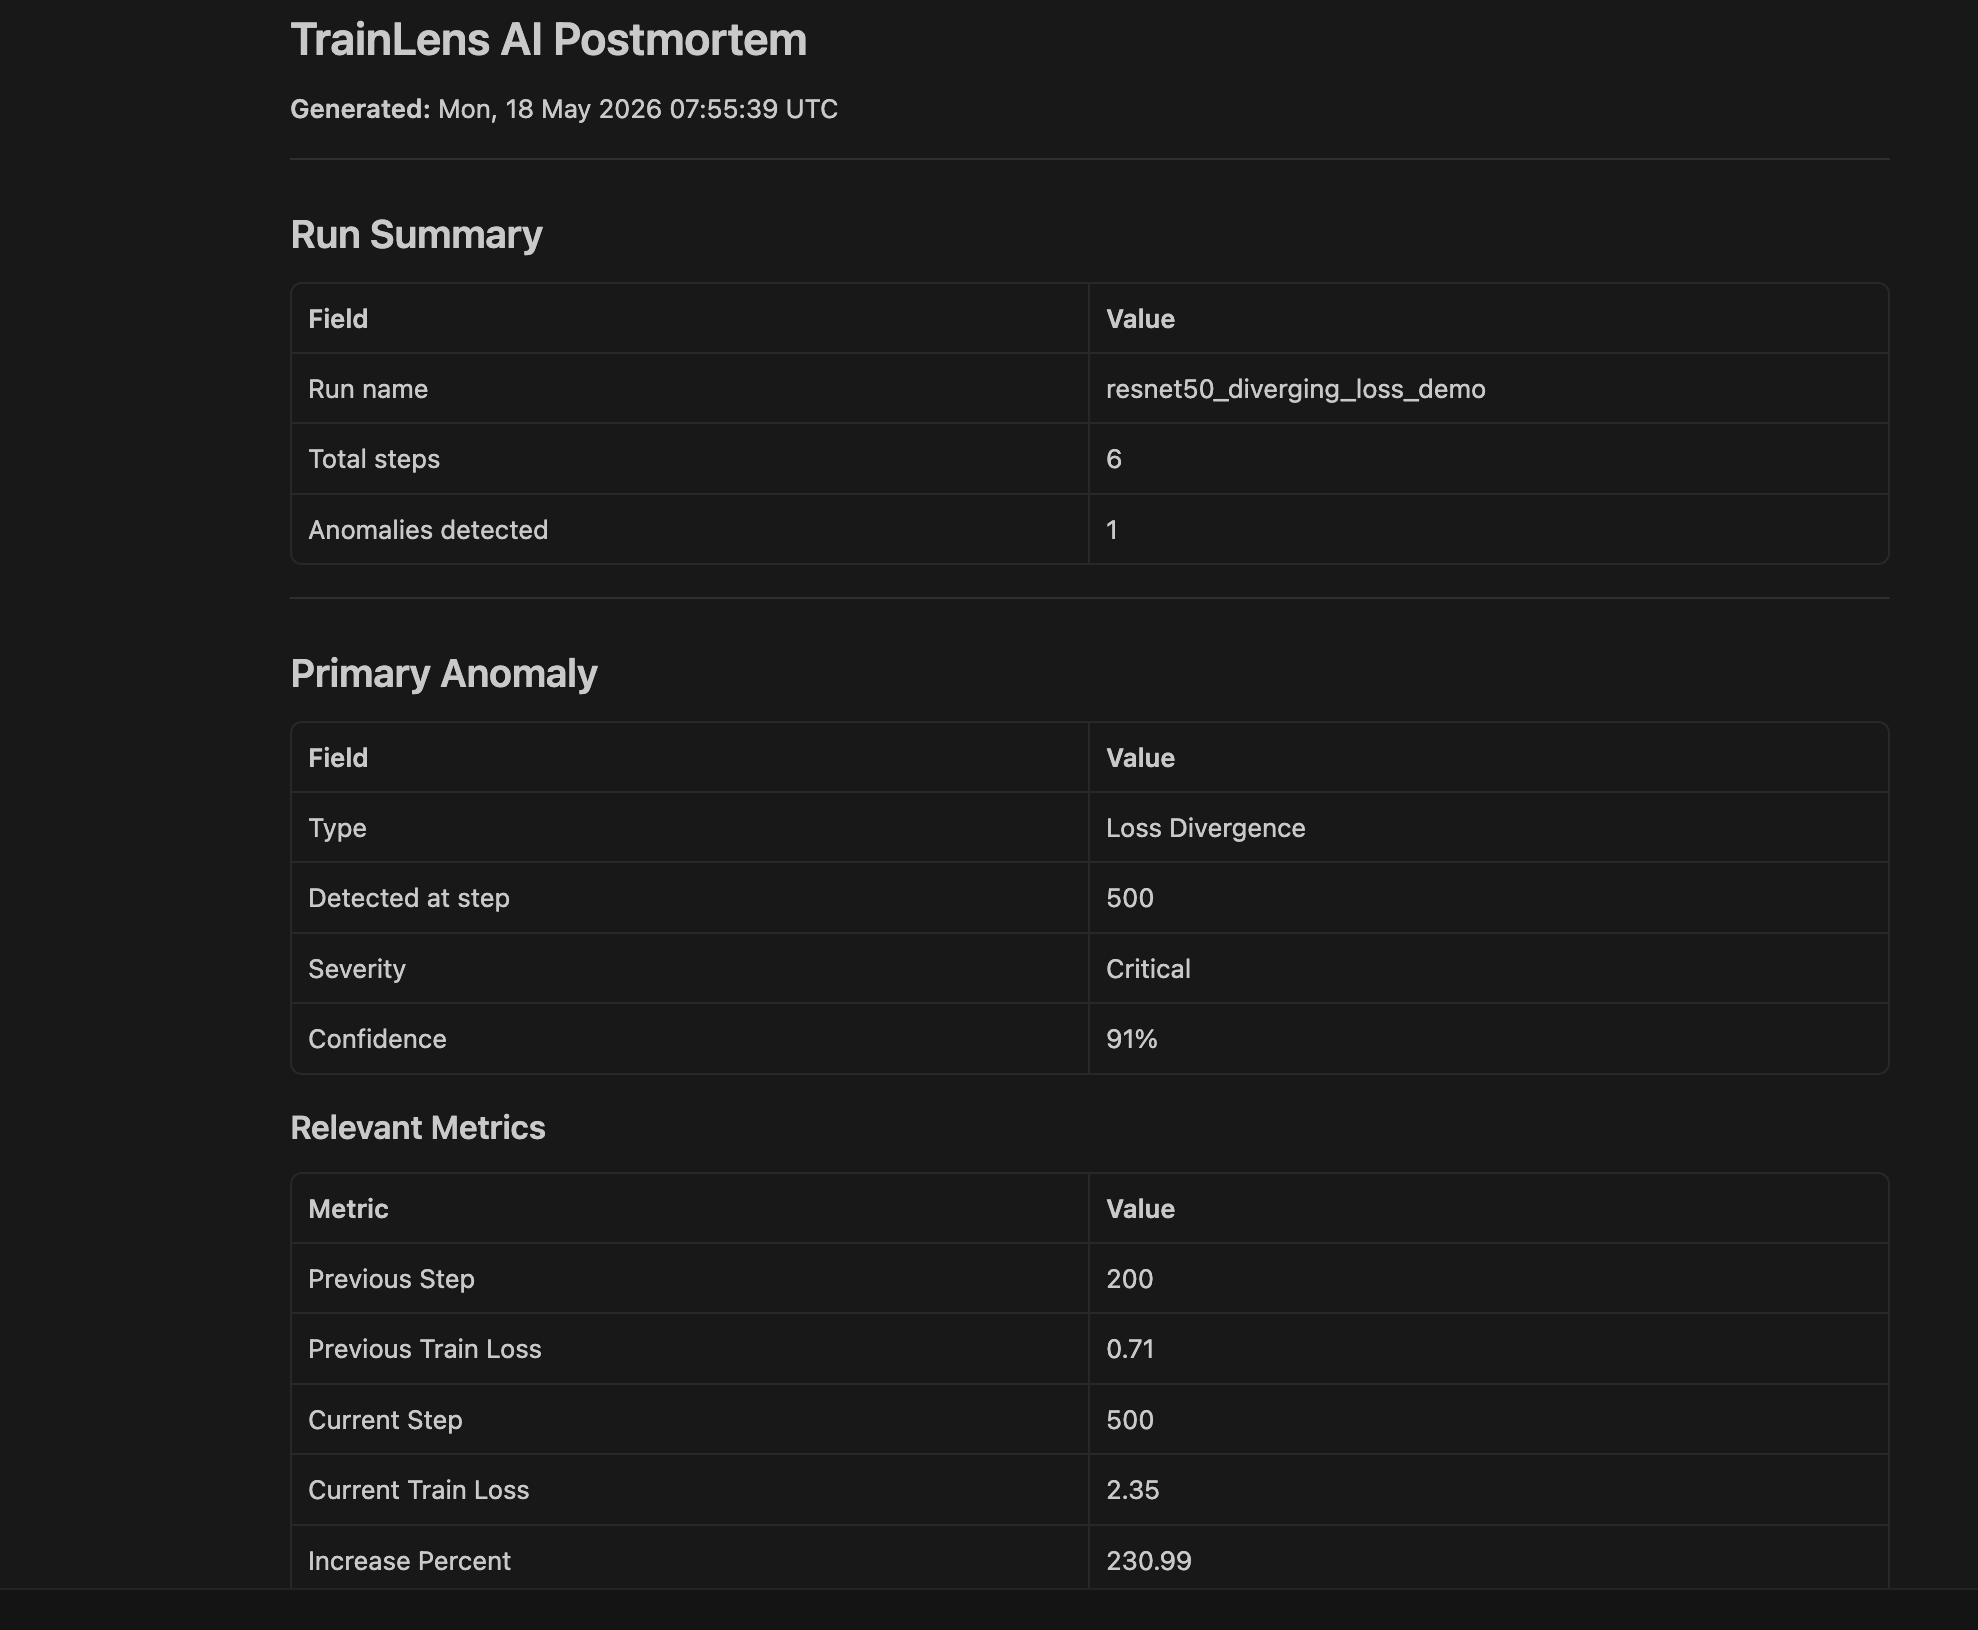
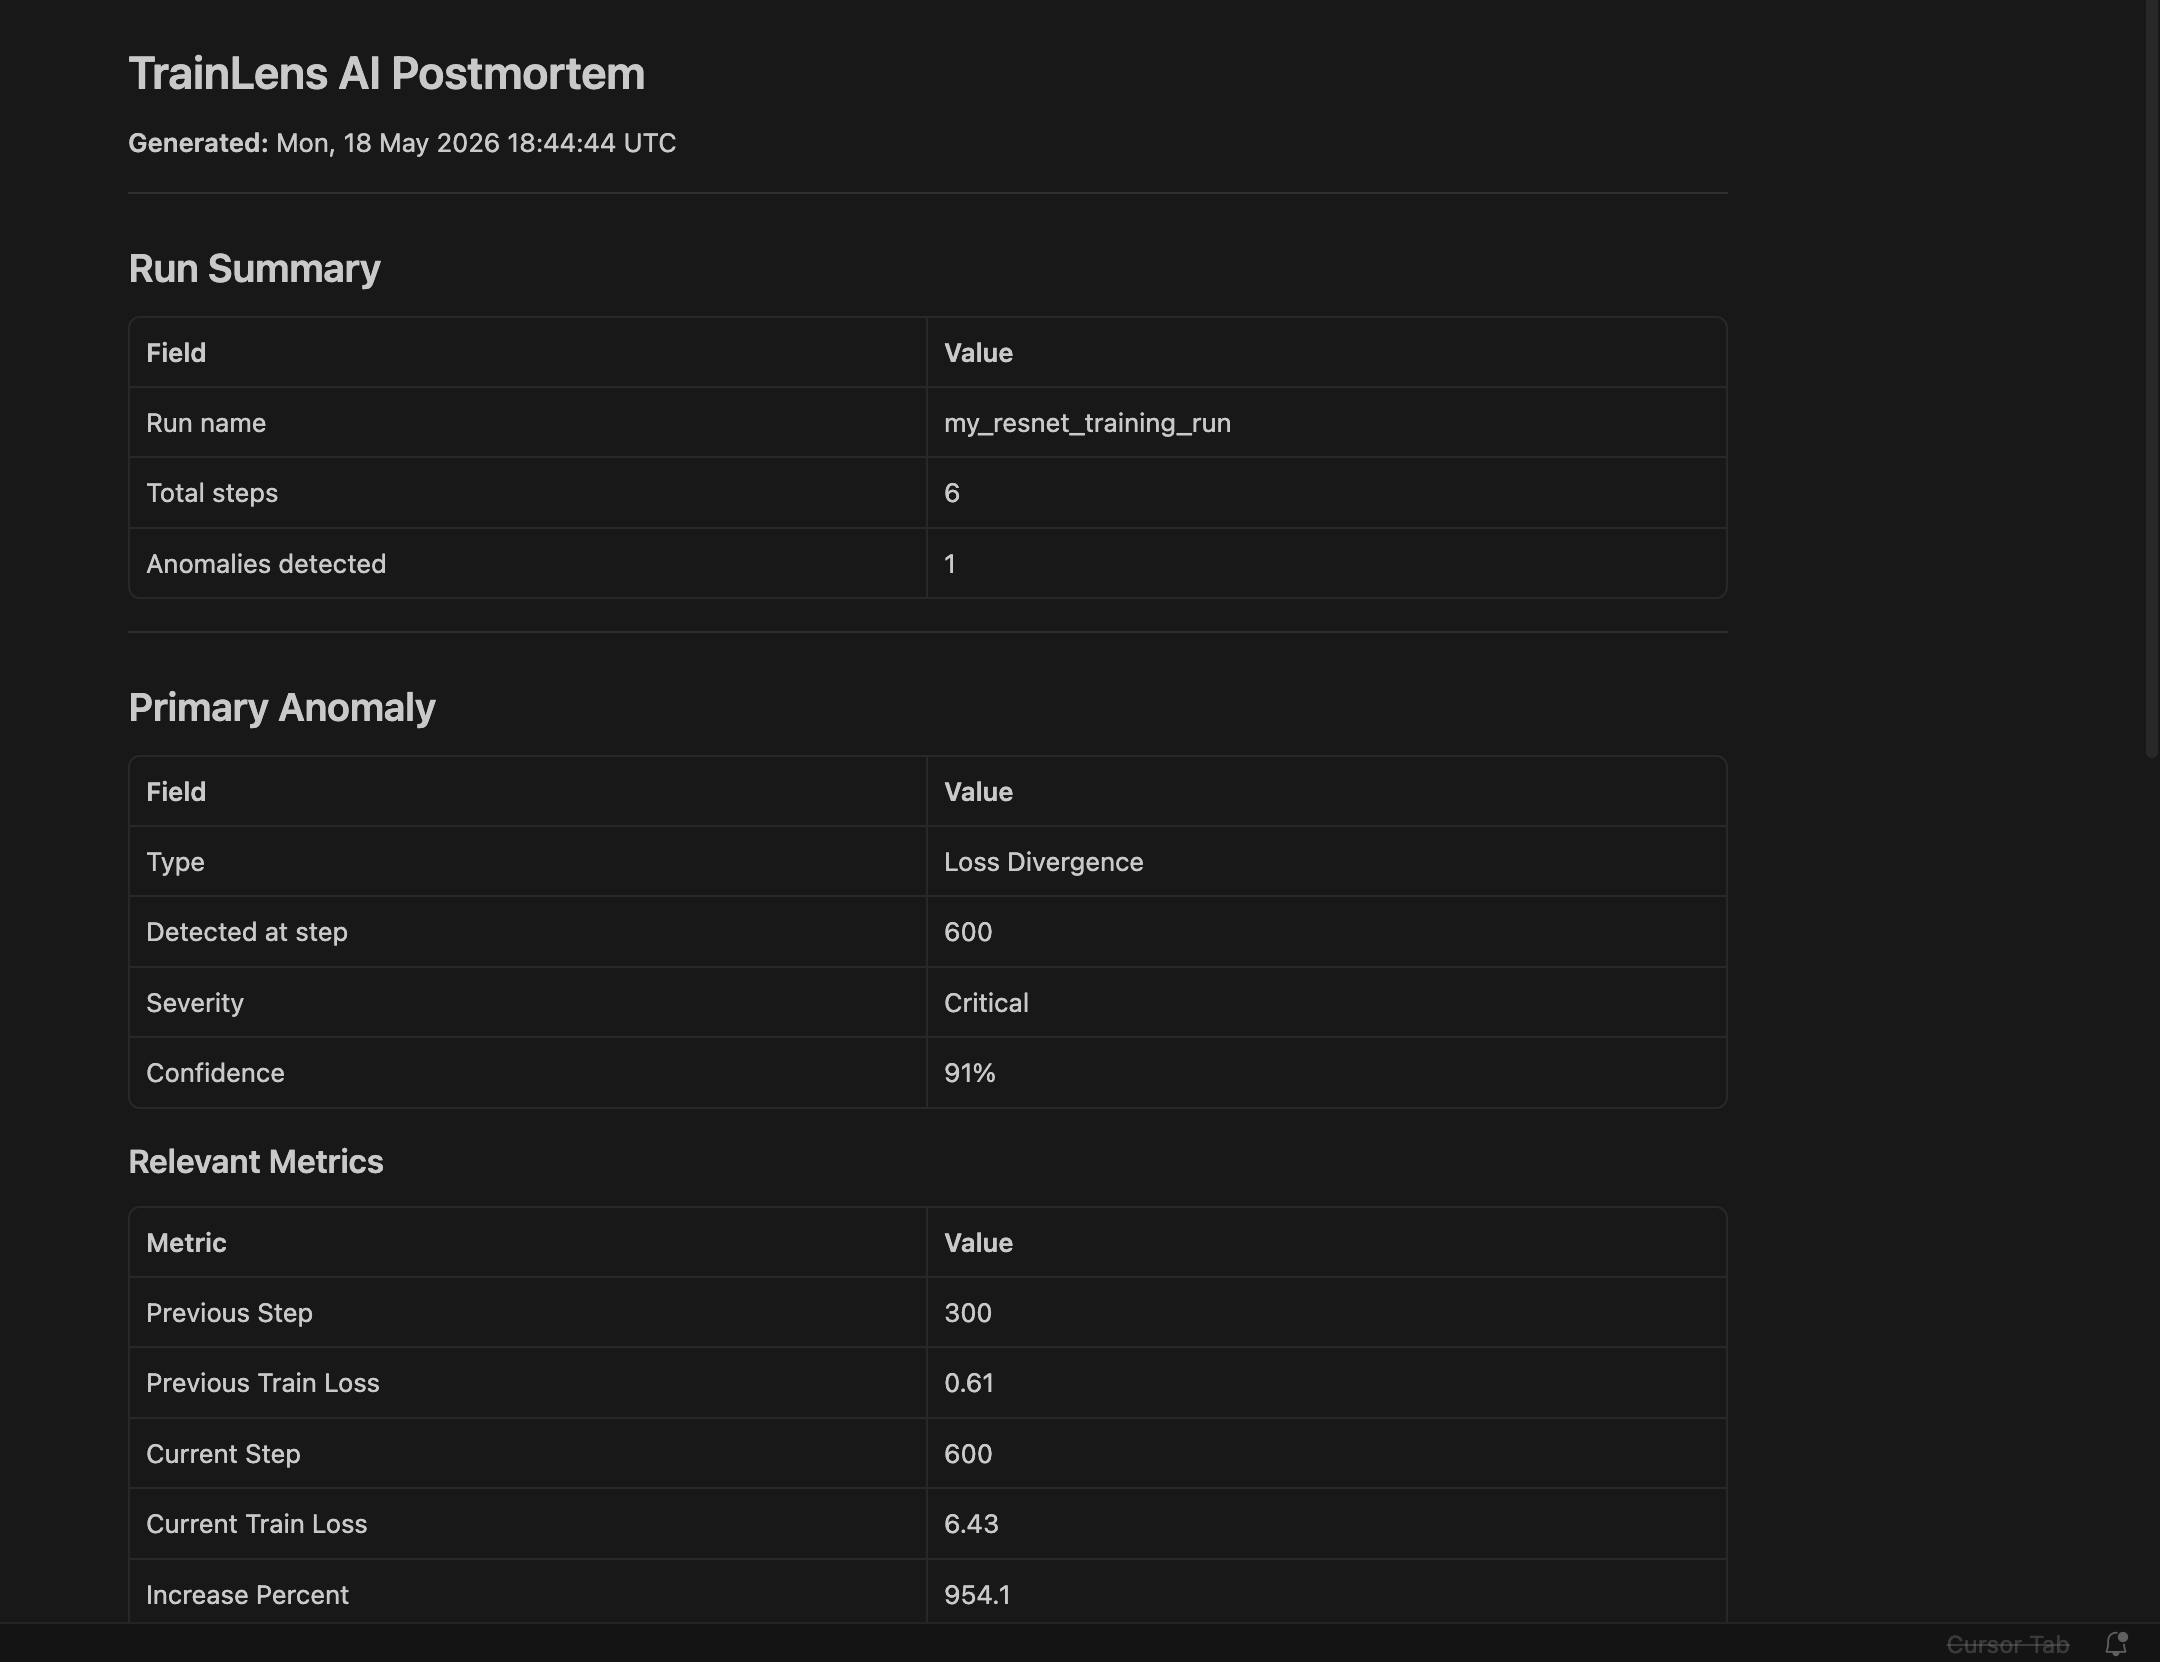
Mark project complete: all docs updated, deployed, screenshots and GIF added

diff --git a/CLAUDE.md b/CLAUDE.md
@@ -4,15 +4,15 @@ TrainLens AI is an AI-powered ML training run failure diagnosis platform.
 
 It parses ML training logs and metrics, detects failure patterns such as loss divergence, exploding gradients, vanishing gradients, GPU underutilization, and OOM risk, then generates explainable root-cause analysis and remediation guidance.
 
-## MVP Goal
+## Current State
 
-Build one working vertical slice:
+The project is fully implemented and deployed.
 
-Sample training log
-→ anomaly detection
-→ mocked AI diagnosis
-→ React dashboard
-→ D3 failure visualization
+- Backend: FastAPI with 5 anomaly detectors, Claude diagnosis, Ask TrainLens Q&A, deterministic fallbacks
+- Frontend: React + TypeScript + Vite, D3 charts, premium dark UI, file upload, postmortem export
+- Deployed: backend on Railway, frontend on Vercel
+- Live: https://trainlens-ai-azure.vercel.app/
+- Tests: 34 backend tests passing
 
 ## Stack
 
@@ -27,47 +27,47 @@ Backend:
 - FastAPI
 - Pydantic
 - uv for dependency management
+- Anthropic Python SDK (claude-sonnet-4-5 by default)
 
-Future, not MVP:
-- Claude/OpenAI API
+Deployed:
+- Railway (backend)
+- Vercel (frontend)
+
+Not implemented (out of scope for this MVP):
 - PostgreSQL
 - Redis
 - Celery
 - Kafka
 - Docker
 - LangSmith
+- Authentication
+- Persistent storage
 
 ## Engineering Rules
 
 - Use uv, not pip/requirements.txt.
-- Keep v1 simple.
-- Do not add database on Day 1.
-- Do not add auth on Day 1.
-- Do not add Kafka on Day 1.
+- Do not add database.
+- Do not add auth.
+- Do not add Kafka.
 - Do not add Kubernetes.
-- Do not add Docker yet.
-- Do not add real Claude API yet.
-- Build one demo flow first.
-- Write readable code.
-- Add comments for anomaly logic.
+- Do not add Docker.
 - Do not hardcode API keys.
+- Do not change the backend API contracts (POST /api/analyze, POST /api/ask, GET /).
+- Do not change the AnalyzeResponse or AskResponse shapes.
 - Keep README accurate and professional.
+- Write readable code.
+- Add comments for non-obvious logic (anomaly detection rules, D3 rendering choices).
 
-## First Milestone
-
-Backend:
-- GET /
-- POST /api/analyze
+## API Contracts (do not change)
 
 POST /api/analyze accepts:
 - run_name
 - metrics array with step, train_loss, val_loss, gpu_utilization_percent, memory_used_gb, memory_total_gb, gradient_norm, learning_rate, batch_size, throughput_samples_per_sec, timestamp
 
-It should detect loss divergence if current train_loss increases more than 200% within 3 steps.
+Returns: run_name, summary, anomalies[], diagnosis
 
-Frontend:
-- Basic dashboard
-- Button to analyze sample log
-- Show anomaly result
-- Show diagnosis
-- D3 loss curve with anomaly marker
+POST /api/ask accepts:
+- question (string)
+- analysis (full AnalyzeResponse)
+
+Returns: answer (string)

diff --git a/docs/ARCHITECTURE.md b/docs/ARCHITECTURE.md
@@ -4,20 +4,22 @@
 
 TrainLens AI analyzes ML training logs and detects training failure patterns.
 
-The MVP backend is intentionally simple:
+The backend is intentionally simple:
 
 - FastAPI backend
-- Sample JSON logs
+- Sample JSON logs (and user-uploaded JSON via the frontend)
 - Rule-based anomaly detector pipeline
 - Claude diagnosis with rule-based fallback
 - Claude-powered follow-up Q&A with fallback
 - React/D3 frontend with premium dark UI
 
+Deployed on Railway (backend) and Vercel (frontend). Live at https://trainlens-ai-azure.vercel.app/
+
 ## 2. High-Level Flow
 
 ```mermaid
 flowchart LR
-    A[Training Log JSON] --> B[POST /api/analyze]
+    A[Training Metrics JSON\nor file upload] --> B[POST /api/analyze]
     B --> C[Schema Validation]
     C --> D[Anomaly Detector Pipeline]
     D --> E[Diagnosis Generator]
@@ -27,6 +29,8 @@ flowchart LR
     G --> H
     H --> I[React Dashboard]
     I --> J[D3 Loss Curve]
+    I --> J2[GPU Utilization Chart]
+    I --> J3[Memory Utilization Chart]
     I --> K[Anomaly Cards]
     I --> L[Diagnosis Panel]
     I --> M[Markdown Export]
@@ -88,18 +92,47 @@ The prompt is sent to Claude (`claude-sonnet-4-5` by default). If `ANTHROPIC_API
 
 | Component | Purpose |
 |---|---|
-| `SampleRunSelector` | Dropdown + Analyze button for selecting a pre-built training log |
+| `DataSourceCard` | Unified data source selector — tab toggle between sample runs and JSON file upload; mutually exclusive modes, file parsing and validation included |
 | `AnalysisLoadingCard` | Animated loading card with rotating status messages and educational facts |
 | `AnalysisSummary` | Run name, total steps, and anomaly count stats |
-| `LossCurveChart` | D3 loss curve with clickable severity-colored anomaly markers |
+| `LossCurveChart` | D3 loss curve (train + val) with clickable severity-colored anomaly markers |
+| `GpuUtilizationChart` | D3 line chart showing GPU utilization % with a dashed 50% underutilization threshold and anomaly markers |
+| `MemoryUsageChart` | D3 area+line chart showing memory utilization % with a dashed 90% OOM risk threshold and anomaly markers |
 | `AnomalyCard` | Per-anomaly card with type, severity badge, step, confidence, and relevant metrics |
 | `DiagnosisPanel` | Headline, root cause, explanation, and numbered remediation steps |
 | `AskTrainLensCard` | Mentor Q&A panel — prompt chips, free-text input, Claude-powered answers |
 | `ExportPostmortemButton` | One-click Markdown postmortem export |
 
-The results view uses a two-column CSS Grid layout at ≥1080px: main content left, Ask TrainLens sidebar right (sticky).
+The results view uses a two-column CSS Grid layout at ≥1080px: main content left, Ask TrainLens sidebar right (sticky). GPU and Memory charts sit in a two-column sub-grid within the main column. On narrow screens all columns collapse to single-column.
 
-## 7. MVP Architecture Decisions
+## 7. JSON File Upload Flow
+
+The frontend handles file upload entirely client-side using the FileReader API — no upload endpoint exists on the backend.
+
+1. User selects a `.json` file via the `DataSourceCard` upload tab.
+2. `FileReader.readAsText` reads the file in-browser.
+3. `validateTrainingRun` checks that the parsed object has a non-empty `run_name` and a non-empty `metrics` array where every step has at least `step` and `train_loss`.
+4. If valid, the parsed payload replaces the sample run as the active data source.
+5. Clicking Analyze sends the uploaded payload to `POST /api/analyze` — the same endpoint as sample runs.
+
+## 8. Deployment Architecture
+
+```mermaid
+flowchart LR
+    U[User browser] --> V[Vercel — React frontend]
+    V -->|POST /api/analyze\nPOST /api/ask| R[Railway — FastAPI backend]
+    R -->|Claude API calls| A[Anthropic API]
+```
+
+| Layer | Platform | Notes |
+|---|---|---|
+| Frontend | Vercel | Static build from `frontend/`. `VITE_API_BASE_URL` points to Railway. |
+| Backend | Railway | Python 3.12 + FastAPI. `ANTHROPIC_API_KEY` and `ANTHROPIC_MODEL` set as env vars. |
+| AI | Anthropic API | `claude-sonnet-4-5` by default. Falls back to deterministic if key is absent. |
+
+CORS is configured on the FastAPI backend to accept requests from the Vercel frontend origin.
+
+## 9. MVP Architecture Decisions
 
 - Use FastAPI for lightweight API development.
 - Use uv for modern Python dependency management.
@@ -107,9 +140,10 @@ The results view uses a two-column CSS Grid layout at ≥1080px: main content le
 - Start with JSON logs instead of real-time streaming.
 - Claude diagnosis with a rule-based fallback (active when `ANTHROPIC_API_KEY` is unset or Claude fails).
 - Ask TrainLens Q&A passes the full `AnalyzeResponse` as context, avoiding a separate storage layer.
+- File upload is handled client-side (FileReader) — no backend upload endpoint required.
 - Delay database until the core loop is proven.
 
-## 8. Future Architecture
+## 10. Future Architecture
 
 ```mermaid
 flowchart LR

diff --git a/docs/DECISIONS.md b/docs/DECISIONS.md
@@ -140,3 +140,53 @@ The prompt sent to Claude is constructed from the structured anomaly and diagnos
 ### Consequences
 
 Simple stateless implementation with no storage dependency. The tradeoff is larger request payloads when the context window is long, and no ability to retrieve or share past analyses. Persistence can be added later without changing the Q&A contract.
+
+---
+
+## ADR-007: Unified data source card over two separate components
+
+### Decision
+
+Replace the separate `SampleRunSelector` and `JsonUploadCard` components with a single `DataSourceCard` that uses a tab toggle to switch between sample run and upload modes.
+
+### Reason
+
+The original two-card layout allowed a user to have both a sample run selected and an uploaded file present simultaneously. The active payload was resolved silently with `uploadedPayload ?? samplePayload`, giving no visible indication of which source would be analyzed. This caused confusion: the Analyze button was inside the sample selector card, making it look unrelated to uploaded files.
+
+The unified card makes the two modes explicitly mutually exclusive. Switching tabs clears the inactive source and resets the analysis. The standalone Analyze button below the card carries a context label ("Analyze · Loss Divergence" or "Analyze · my_run.json") so the user always knows what will be submitted.
+
+### Alternatives Considered
+
+- Keep two separate cards but add visible precedence indicators
+- Add a separate "active source" label above the Analyze button
+
+### Consequences
+
+Cleaner mental model: one card = one data source. The Analyze button's label is the single source of truth for what will be analyzed. Slight increase in component complexity (one component owns both the select and the FileReader logic).
+
+---
+
+## ADR-008: Railway for backend, Vercel for frontend
+
+### Decision
+
+Deploy the FastAPI backend to Railway and the React frontend to Vercel.
+
+### Reason
+
+Both platforms offer zero-config deployments from a GitHub repo and free tiers suitable for a portfolio project.
+
+- **Vercel** is purpose-built for static/SPA frontends. The Vite build output deploys with a single config file and handles CDN distribution automatically.
+- **Railway** runs arbitrary Dockerless server processes. It detects the Python/FastAPI project, runs `uv sync` and starts `uvicorn`, and provides persistent env vars for `ANTHROPIC_API_KEY`.
+
+Keeping the two layers on separate platforms makes them independently scalable and avoids bundling a Python server into a Vercel serverless function (which has cold-start and timeout constraints that would affect long diagnosis requests).
+
+### Alternatives Considered
+
+- Render (supports both static sites and Python services, slightly more configuration)
+- Fly.io (more control, more ops overhead)
+- Single platform for both (would require a monorepo adapter or server-side rendering)
+
+### Consequences
+
+Frontend and backend have independent deployment pipelines. CORS must be explicitly configured on the FastAPI backend to allow the Vercel origin. `VITE_API_BASE_URL` must be set in the Vercel project env vars to point to the Railway backend URL.

diff --git a/docs/ROADMAP.md b/docs/ROADMAP.md
@@ -76,19 +76,28 @@ Goal: turn the MVP into a public portfolio project.
 - [x] Cross-highlighting between anomaly cards and D3 chart markers
 - [x] Screenshots in README
 - [x] Demo GIF in README
-
-### Remaining
-
-- [ ] Frontend file upload for real training logs
-- [ ] Frontend unit tests
-- [ ] Deployed demo
-- [ ] Add project to LinkedIn Featured
-- [ ] Add project to resume
+- [x] Frontend JSON file upload with client-side validation
+- [x] GPU utilization D3 chart with 50% threshold and anomaly markers
+- [x] Memory utilization D3 area chart with 90% OOM threshold and anomaly markers
+- [x] Unified data source card with tab toggle (mutually exclusive sample / upload modes)
+- [x] Deployed — backend on Railway, frontend on Vercel
 
 ### Definition of Done
 
 - [x] Public GitHub repo is polished
 - [x] README explains setup and architecture
 - [x] Demo GIF shows the full workflow
-- [ ] Live demo is available
-- [ ] LinkedIn launch post is published
+- [x] Live demo is available at https://trainlens-ai-azure.vercel.app/
+
+---
+
+## Future Enhancements
+
+Not scheduled. Items below require explicit scope decisions before starting.
+
+- [ ] Frontend unit tests
+- [ ] Chat history for Ask TrainLens (persistent conversation per run)
+- [ ] Raw log / CSV / TensorBoard format parsing
+- [ ] Authentication and multi-user support
+- [ ] Persistent storage (PostgreSQL)
+- [ ] Streaming diagnosis responses

diff --git a/README.md b/README.md
@@ -2,6 +2,8 @@
 
 **AI-assisted ML training run failure diagnosis.**
 
+**[Live demo →](https://trainlens-ai-azure.vercel.app/)**
+
 TrainLens AI is a lightweight diagnostic layer for ML training runs. It accepts training metrics, detects failure patterns such as loss divergence, vanishing gradients, and OOM risk, and returns structured root-cause analysis with remediation steps — optionally powered by Claude.
 
 > **Portfolio note:** This is a working MVP, not a production observability platform. It does not replace W&B, MLflow, or similar tools. It demonstrates an end-to-end AI-assisted diagnosis pipeline built with FastAPI, React, D3, and the Anthropic API.
@@ -34,6 +36,7 @@ TrainLens AI is a lightweight diagnostic layer for ML training runs. It accepts 
 - **Cross-highlighting** — click an anomaly card or chart marker to keep the selected anomaly in focus across all charts
 - **Diagnosis panel** — headline, root cause, explanation, and numbered remediation steps
 - **Markdown postmortem export** — one-click download of a structured incident report
+- **Unified data source selector** — tab toggle between sample runs and JSON file upload; mutually exclusive, always shows what will be analyzed
 - **Premium dark UI** — sticky header, mentor-style animated loading card, two-column layout with sticky Ask TrainLens sidebar
 - **Full type safety** — Pydantic models on the backend, TypeScript interfaces on the frontend
 
@@ -55,7 +58,7 @@ TrainLens AI is a lightweight diagnostic layer for ML training runs. It accepts 
 
 ```mermaid
 flowchart LR
-    A[Training Metrics JSON] --> B[POST /api/analyze]
+    A[Training Metrics JSON\nor file upload] --> B[POST /api/analyze]
     B --> C[Schema Validation]
     C --> D[Anomaly Detector Pipeline]
     D --> E[Diagnosis Generator]
@@ -65,6 +68,8 @@ flowchart LR
     G --> H
     H --> I[React Dashboard]
     I --> J[D3 Loss Curve]
+    I --> J2[GPU Utilization Chart]
+    I --> J3[Memory Utilization Chart]
     I --> K[Anomaly Cards]
     I --> L[Diagnosis Panel]
     I --> M[Markdown Export]
@@ -84,6 +89,7 @@ flowchart LR
 | Frontend | React 18, TypeScript, Vite |
 | Visualisation | D3.js v7 |
 | Testing | pytest (backend), `tsc --noEmit` + Vite build (frontend) |
+| Deployment | Railway (backend), Vercel (frontend) |
 
 ---
 
@@ -260,9 +266,12 @@ TypeScript compilation + Vite production build. No test framework is wired up ye
 | ✅ | Frontend JSON file upload |
 | ✅ | GPU utilization chart |
 | ✅ | Memory utilization chart |
+| ✅ | Unified data source card with tab toggle |
+| ✅ | Deployed — backend on Railway, frontend on Vercel |
 | ⬜ | Raw log / CSV parsing |
 | ⬜ | Frontend unit tests |
-| ⬜ | Deployed demo |
+| ⬜ | Chat history for Ask TrainLens |
+| ⬜ | Authentication and persistent storage |
 
 ---
 

diff --git a/docs/API_SPEC.md b/docs/API_SPEC.md
@@ -2,11 +2,19 @@
 
 ## Base URL
 
-Local:
+Local development:
 
 ```text
 http://localhost:8000
 ```
+
+Production (Railway):
+
+```text
+https://trainlens-ai-backend.up.railway.app
+```
+
+The frontend reads the base URL from `VITE_API_BASE_URL` at build time; the default is `http://localhost:8000` for local development.
 
 ## GET /
 
@@ -157,8 +165,6 @@ The `anomaly_type` field in each anomaly object will be one of:
 | `training_stall` | warning | val_loss changed by < 0.001 for 5+ consecutive steps |
 
 The `diagnosis` field always reflects the first anomaly in the `anomalies` array.
-
----
 
 ---
 